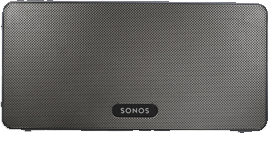
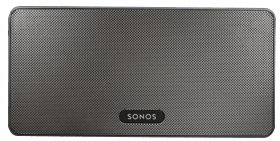
Added better images

diff --git a/src/index.html b/src/index.html
@@ -5,7 +5,6 @@
   <meta name="viewport" content="width=device-width, initial-scale=1.0">
   <meta http-equiv="X-UA-Compatible" content="ie=edge">
   <title>Sonos</title>
-  <link rel="stylesheet" href="css/main.css" class="src">
   <link rel="stylesheet" href="https://use.fontawesome.com/releases/v5.0.13/css/all.css" integrity="sha384-DNOHZ68U8hZfKXOrtjWvjxusGo9WQnrNx2sqG0tfsghAvtVlRW3tvkXWZh58N9jp" crossorigin="anonymous">
 </head>
 <body>
@@ -15,7 +14,7 @@
       <nav>
         <!-- square icon on the design -->
         <div class="logo">
-          <img src="http://via.placeholder.com/48x48" alt="square icon">
+          <!-- <img src="http://via.placeholder.com/48x48" alt="square icon"> -->
         </div>
         <h1>Sonos</h1>
         <div class="links">
@@ -86,7 +85,7 @@
       <p>you love and more - without ever opening your Sonos app.</p>
       <div class="content">
         <div class="col">
-          <img src="images/_0005_iphone.png" alt="mobile app">
+          <img src="images/phone.png" alt="mobile app">
         </div>
         <div class="col">
           <div class="spotify-feature">

diff --git a/src/scss/products.scss b/src/scss/products.scss
@@ -49,7 +49,7 @@
                 text-align: center;
                 padding-top: 64px;
                 img {
-                    box-shadow: 0 128px 128px -42px #111;
+                    box-shadow: 0 172px 128px -42px #111;
                 }
             }
 

diff --git a/src/scss/intro.scss b/src/scss/intro.scss
@@ -3,7 +3,7 @@
     background-size: cover;
     background-position: center;
     background-repeat: no-repeat;
-    background-image: url('../images/_0000_intro.png');
+    background-image: url('../images/intro-bg.jpg');
     padding-top: 8px;
 
     nav {

diff --git a/src/index.js b/src/index.js
@@ -1,0 +1,1 @@
+require('./scss/main.scss');
